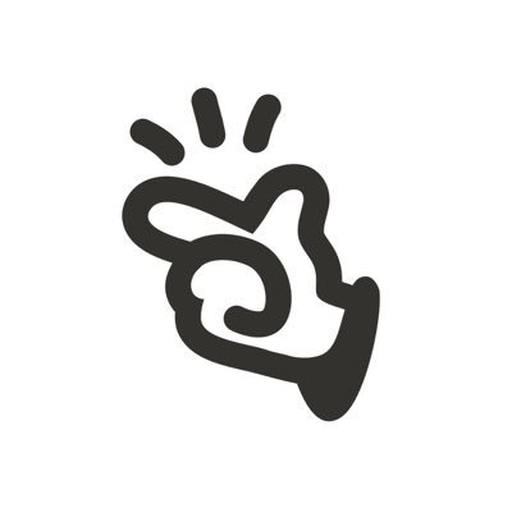
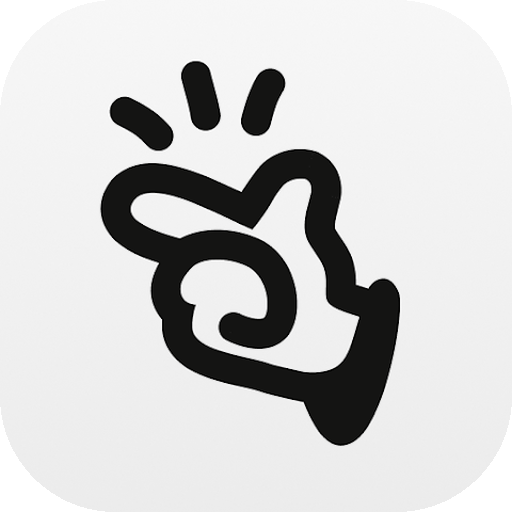
🤖 新增 Qwen / Kimi / MiniMax / GLM，更新 Manus 图标
- 新增 icons/AI/Qwen/Qwen.png（512 RGBA r=115，蓝底白色循环图形，oxipng 无损 91,189 → 67,469）
- 新增 icons/AI/Kimi/Kimi.png（黑底白色 K + 蓝点，oxipng 无损 330,757 → 257,777）
- 新增 icons/AI/MiniMax/MiniMax.png（粉橙渐变底白色声波，oxipng 无损 44,248 → 36,642）
- 新增 icons/AI/GLM/GLM.png（黑底白色 Z，oxipng 无损 13,977 → 9,341）
- 替换 icons/General/Manus/Manus.png（同一手势标志，新版图形更饱满、小尺寸辨识度更好，oxipng 无损 134,671 → 85,496）
- 同步生成物：surge-icon.json（+4 条目，合计 367）、AI/General README、根 README 统计 367/280、分类表、icon-quality-notes 扫描范围 367/280

压缩安全性：5 张全部经 alpha 通道 + 白底合成可见 RGB 逐字节比对，与压缩前一致。

Changed region(s): [[0.1875, 0.125, 0.7812, 0.875], [0.3438, 0.0938, 0.4375, 0.3125]]

diff --git a/README.md b/README.md
@@ -17,8 +17,8 @@
   <img src="https://img.shields.io/github/stars/Hawaiine/Oasisic-Icons?style=flat-square" alt="Stars">
   <img src="https://img.shields.io/github/last-commit/Hawaiine/Oasisic-Icons?style=flat-square" alt="Last Commit">
   <img src="https://img.shields.io/github/repo-size/Hawaiine/Oasisic-Icons?style=flat-square" alt="Repo Size">
-  <img src="https://img.shields.io/badge/icons-363-blue?style=flat-square" alt="Icons Count">
-  <img src="https://img.shields.io/badge/brands-276-green?style=flat-square" alt="Brands Count">
+  <img src="https://img.shields.io/badge/icons-367-blue?style=flat-square" alt="Icons Count">
+  <img src="https://img.shields.io/badge/brands-280-green?style=flat-square" alt="Brands Count">
   <img src="https://img.shields.io/badge/categories-21-orange?style=flat-square" alt="Categories Count">
 </p>
 
@@ -26,9 +26,9 @@
 
 ## 📖 简介 / Introduction
 
-**Oasisic-Icons** 是一套专为代理工具设计的策略组图标合集：当前共 **363** 个 PNG 图标，覆盖 **276** 个品牌，归入 **21** 个活跃分类（另有 `Education` / `Finance` / `Health` 3 个预留空分类）。
+**Oasisic-Icons** 是一套专为代理工具设计的策略组图标合集：当前共 **367** 个 PNG 图标，覆盖 **280** 个品牌，归入 **21** 个活跃分类（另有 `Education` / `Finance` / `Health` 3 个预留空分类）。
 
-本项目为独立图标仓库，当前 363 个图标均为 512×512 PNG（RGBA 模式），适配 Surge、Loon、Clash Meta / Mihomo、Stash、Quantumult X、Egern 等主流代理客户端。
+本项目为独立图标仓库，当前 367 个图标均为 512×512 PNG（RGBA 模式），适配 Surge、Loon、Clash Meta / Mihomo、Stash、Quantumult X、Egern 等主流代理客户端。
 
 > **画质规范（贡献与替换标准）**：512×512 方形 PNG，RGBA 模式，Apple 风格 squircle 圆角（圆角半径 ≈ 115px / 约 22.4%），保留原始底色。
 > 仓库内图标按该规范维护，均为 512×512、RGBA、保留原始底色，经 `scripts/optimize-icons.py` 无损重压缩；少量历史圆角边缘遗留项待处理，明细与遗留项见 [`docs/references/icon-quality-notes.md`](docs/references/icon-quality-notes.md)。
@@ -169,7 +169,7 @@ static=Netflix, HK, TW, JP, SG, img-url=https://raw.githubusercontent.com/Hawaii
 
 | 分类 | 说明 | 品牌数 | 图标数 |
 |---|---|---|---|
-| 🤖 AI | 人工智能服务 | 11 | 11 |
+| 🤖 AI | 人工智能服务 | 15 | 15 |
 | 🍎 Apple | 苹果生态 | 10 | 10 |
 | 🌍 Country | 国家与地区旗帜 | 21 | 49 |
 | ₿ Crypto | 加密货币与区块链 | 1 | 4 |
@@ -193,7 +193,7 @@ static=Netflix, HK, TW, JP, SG, img-url=https://raw.githubusercontent.com/Hawaii
 | ⚡ Surge | Surge 应用图标 | 1 | 15 |
 | 📡 Telecom | 运营商 | 14 | 15 |
 | 🔩 Tool | 工具 | 17 | 17 |
-| **合计** | — | **276** | **363** |
+| **合计** | — | **280** | **367** |
 
 `Education` / `Finance` / `Health` 目前为空分类（仅保留目录与 README），便于后续按同一规范补充图标。
 

diff --git a/icons/AI/README.md b/icons/AI/README.md
@@ -1,6 +1,6 @@
 # 🤖 AI / 人工智能服务
 
-> 共 **11** 个图标，**11** 个品牌
+> 共 **15** 个图标，**15** 个品牌
 
 | 品牌 | 图标文件 |
 |:---|:---|
@@ -8,10 +8,14 @@
 | `Anthropic` | `Anthropic.png` |
 | `DeepSeek` | `DeepSeek.png` |
 | `Doubao` | `Doubao.png` |
+| `GLM` | `GLM.png` |
 | `GeneralAI` | `GeneralAI.png` |
 | `Grok` | `Grok.png` |
+| `Kimi` | `Kimi.png` |
+| `MiniMax` | `MiniMax.png` |
 | `Muse` | `Muse.png` |
 | `NousResearch` | `NousResearch.png` |
 | `OpenAI` | `OpenAI.png` |
 | `Perplexity` | `Perplexity.png` |
 | `Poe` | `Poe.png` |
+| `Qwen` | `Qwen.png` |

diff --git a/docs/references/icon-quality-notes.md b/docs/references/icon-quality-notes.md
@@ -2,7 +2,7 @@
 
 > 最后扫描：2026-09-19（圆角半径更新为 r=115 / Apple squircle）
 > 扫描方法：遍历 `icons/**/*.png`，读取 Pillow 报告的尺寸 / 色彩模式，并统计文件体积
-> 扫描范围：363 个 PNG（276 个品牌目录 / 21 个分类，含 3 个预留空分类）
+> 扫描范围：367 个 PNG（280 个品牌目录 / 21 个分类，含 3 个预留空分类）
 
 ---
 
